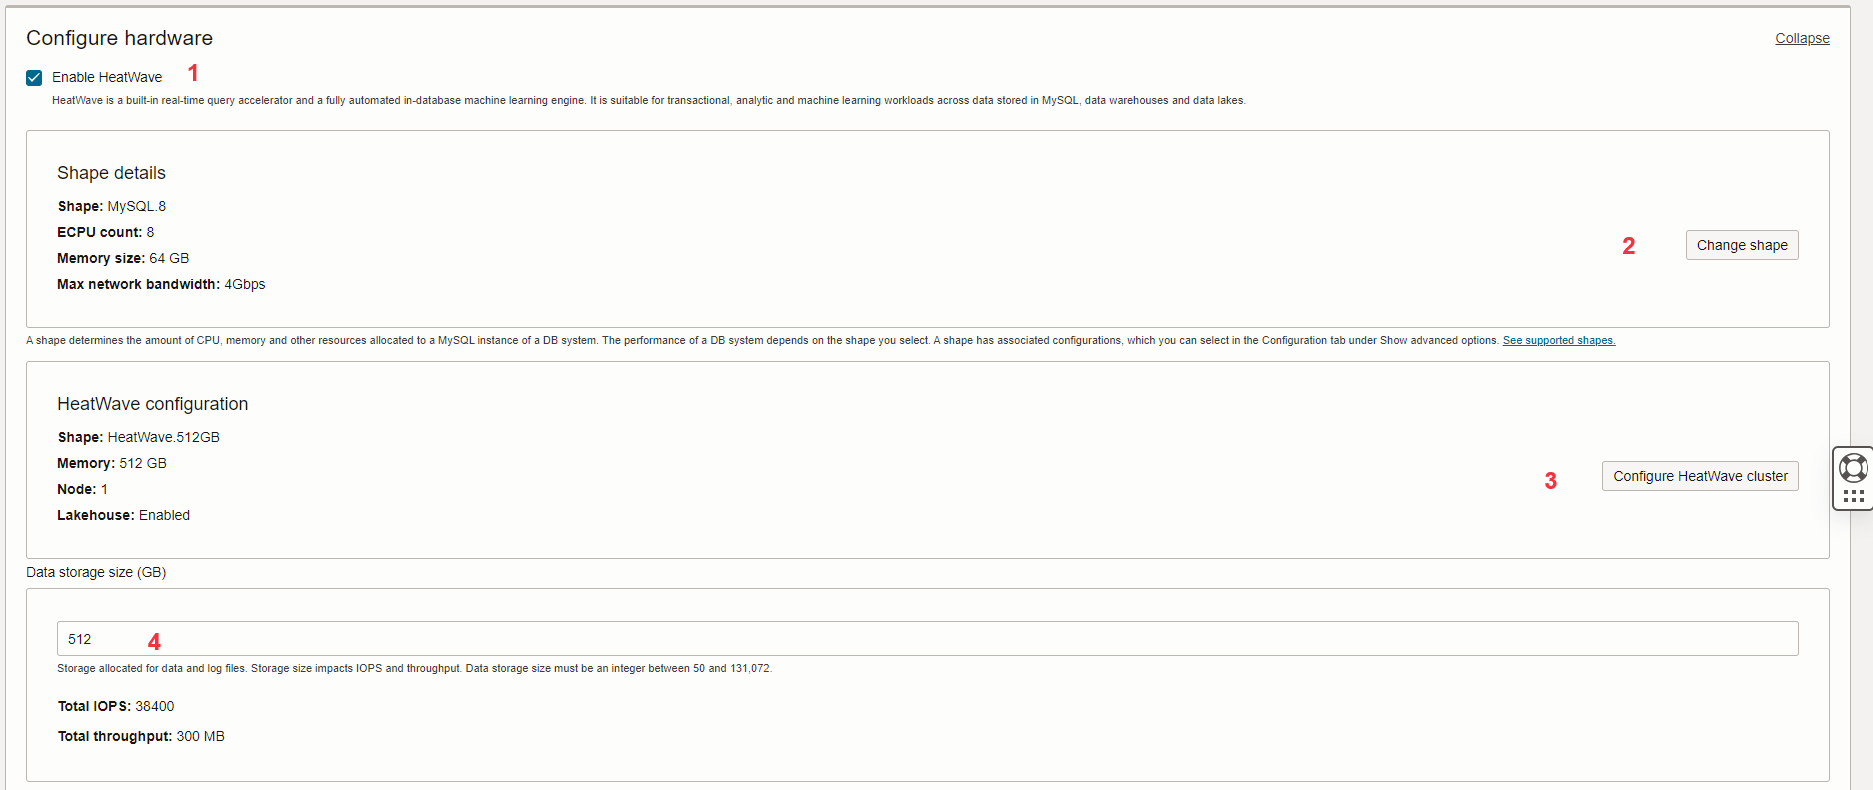
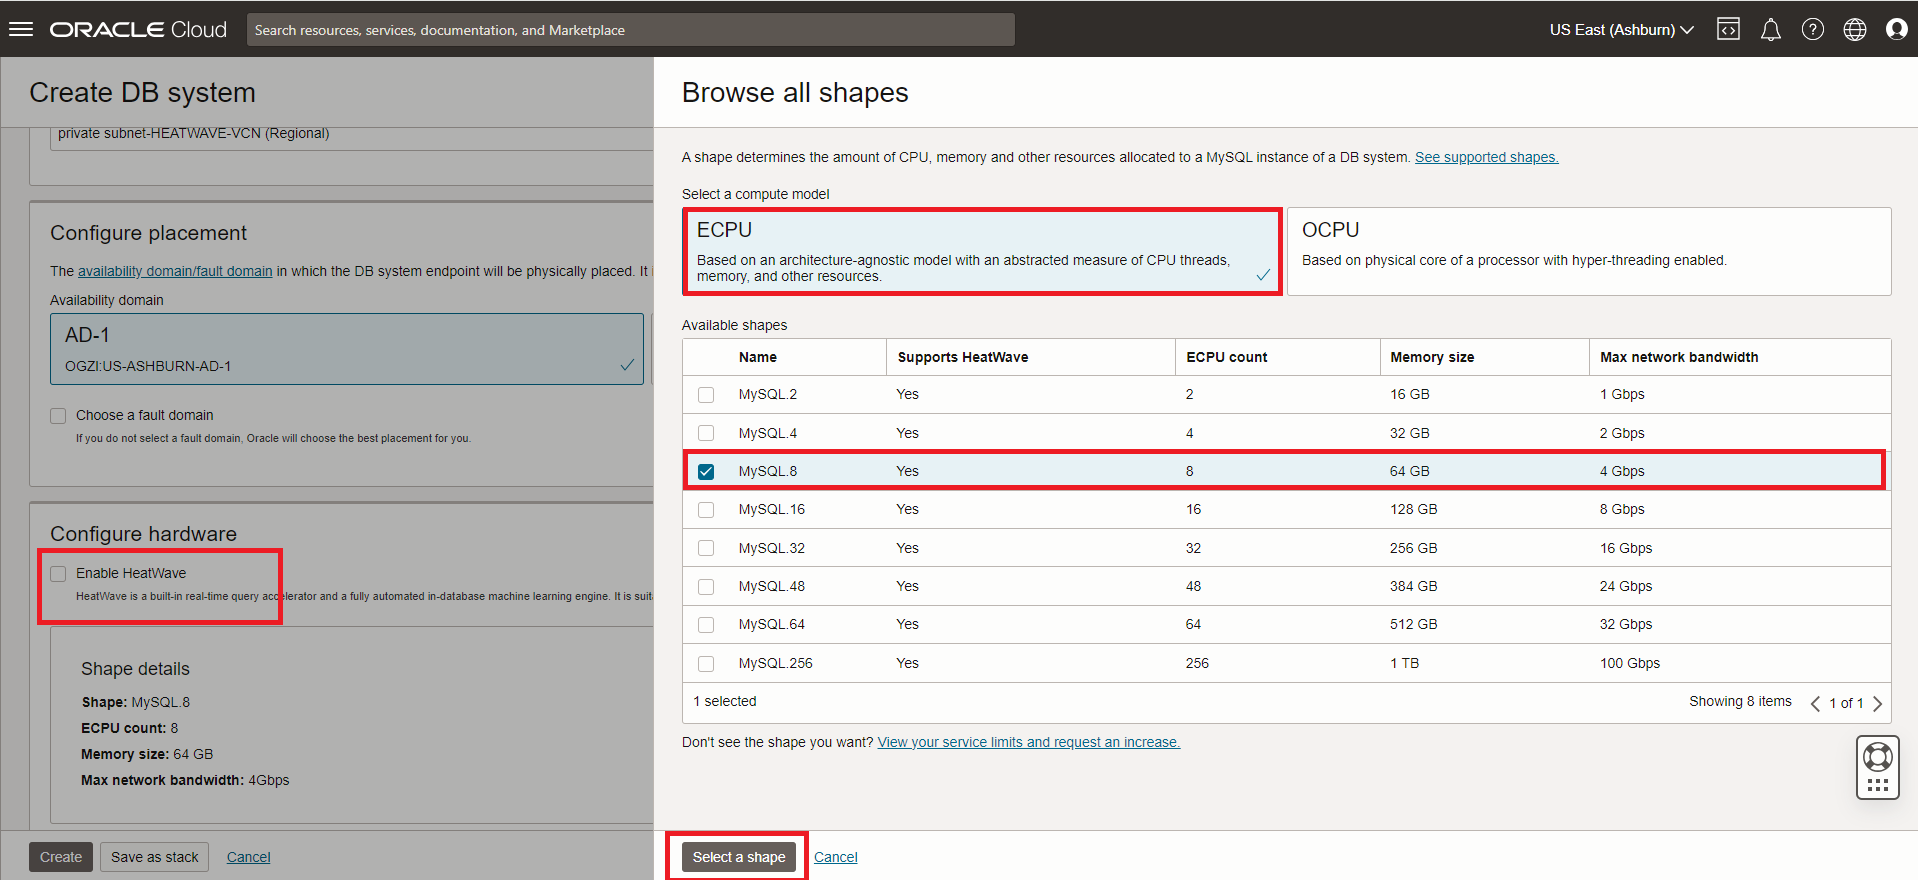
updated
updated

diff --git a/create-dbs-oltp/create-dbs-oltp.md b/create-dbs-oltp/create-dbs-oltp.md
@@ -40,7 +40,7 @@ In this lab, you will be guided through the following tasks:
     - Create Administrator credentials
     - Configure Networking
     - Configure placement
-    - Configure hardware
+    - Configure hardware without HeatWave Cluster
     - Exclude Backups
     - Set up Advanced Options
 
@@ -94,28 +94,25 @@ In this lab, you will be guided through the following tasks:
     ![heatwave db  backup](./images/mysql-create-backup.png " heatwave db  backup")
 
 9. On Configure hardware
-    - 1. **IMPORTANT** Check the  **Enable Heatwave** box
+    - 1. **IMPORTANT** We will not need the HeatWave Cluster for now so  Un-Check the  **Enable Heatwave** box.
     - 2. Click the **Change shape** button to select **ECPU** then **MySQL.8** shape and and click the **Select a Shape** button
-    - 3. Click the **Configure HeatWave Cluster** button 
-        - Select **Change shape**
-        - Select **HeatWave.512GB** shape
-        - Set **Node** to 1
-        - Check the **MySQL HeatWave Lakehouse** box
-        - Click the **Save Changes** button
-    - 4. For Data Storage Size (GB) Set value to:  **512**
-
     ![heatwave db  hardware heatwave](./images/mysql-create-db-hardware-heatwave-ecpu.png "heatwave db hardware heatwave")
+10. For Data Storage Size (GB) Set value to:  **50**
 
-10. **IMPORTANT**
+    Your Database Hardware Configuration should look like the following image
+
+    ![heatwave db  hardware heatwave](./images/mysql-create-db-hardware-heatwave-ecpu-config.png "heatwave db hardware config")
+
+11. **IMPORTANT**
     > **NOTE** In order to successfully complete this workshop you must execute **steps 11, 12, and 13**
 
-11. Click on Show Advanced Options
+12. Click on Show Advanced Options
 
-12. **IMPORTANT** Go to the Configuration tab. Click on **Select a MySQL version** and select the latest MySQL version of the DB system.
+13. **IMPORTANT** Go to the Configuration tab. Click on **Select a MySQL version** and select the latest MySQL version of the DB system.
 
     ![HeatWave add host](./images/mysql-configuration-version.png "mysql host ")
 
-13. **IMPORTANT** Go to the Connections tab, in the Hostname field enter (your DB System Name):
+14. **IMPORTANT** Go to the Connections tab, in the Hostname field enter (your DB System Name):
 
     ```bash
         <copy>HEATWAVE-DB</copy> 
@@ -123,18 +120,18 @@ In this lab, you will be guided through the following tasks:
 
     ![heatwave db advanced](./images/mysql-create-advanced-connections.png "heatwave db advanced ")
 
-14. Review **Create MySQL DB System**  Screen
+15. Review **Create MySQL DB System**  Screen
 
     ![heatwave db create](./images/mysql-create.png "heatwave db create ")
   
     Click the '**Create**' button
 
-15. The New MySQL DB System will be ready to use after a few minutes
+16. The New MySQL DB System will be ready to use after a few minutes
 
     The state will be shown as 'Creating' during the creation
     ![show creeation state](./images/mysql-create-in-progress.png "show creeation state")
 
-16. The state 'Active' indicates that the DB System is ready for use
+17. The state 'Active' indicates that the DB System is ready for use
 
     On HEATWAVE-HW Page, select the **Connections** tab and save the **Private IP**
 
